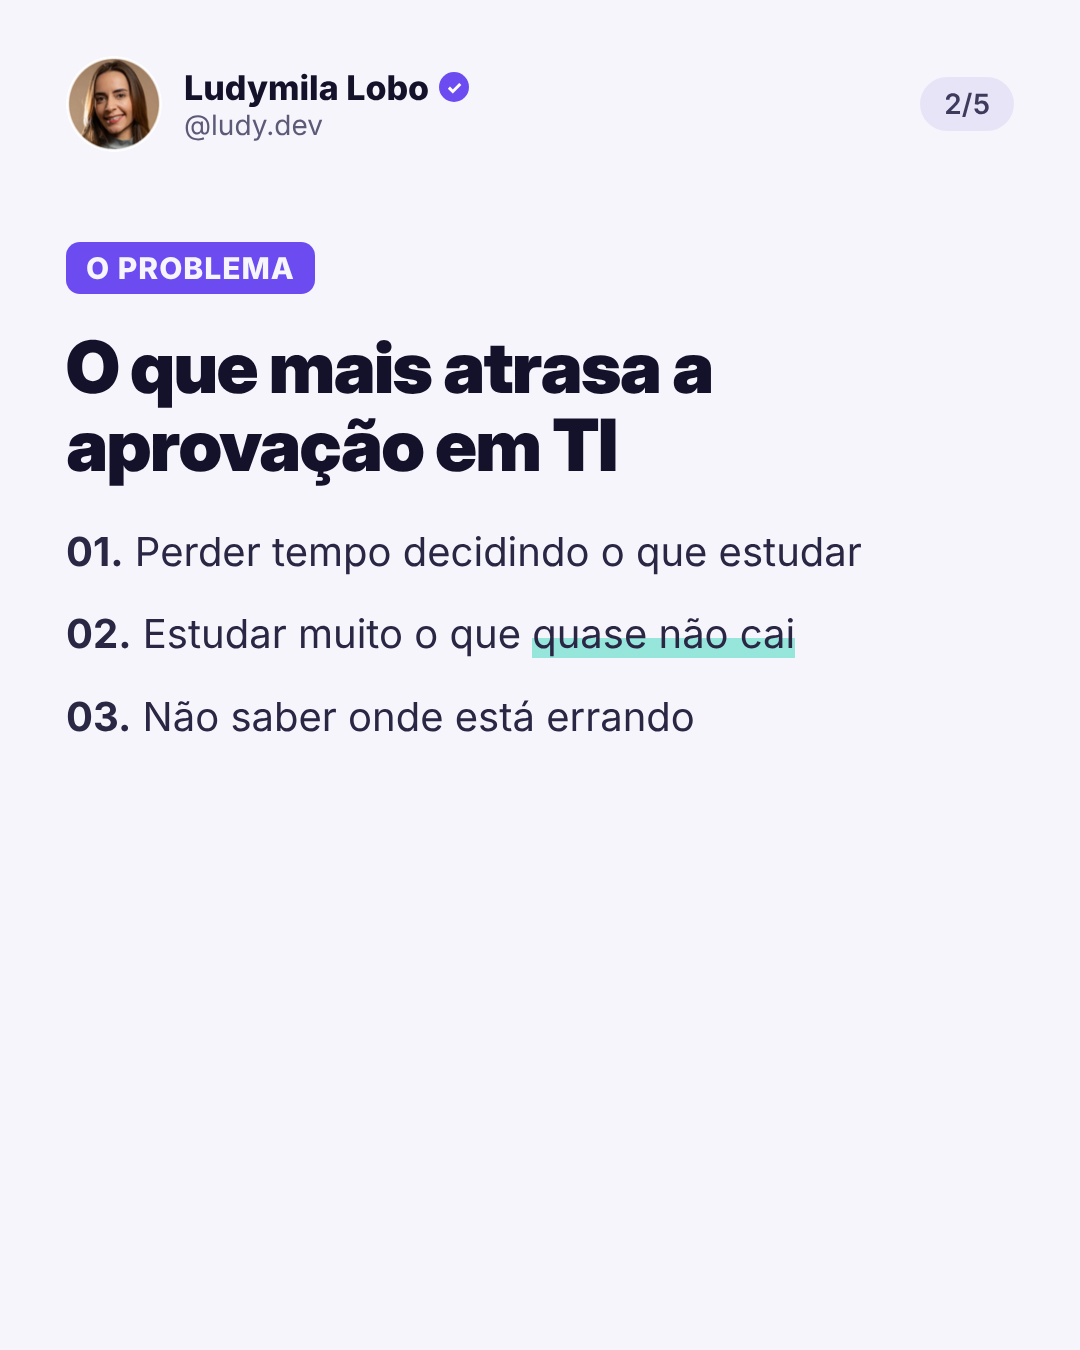
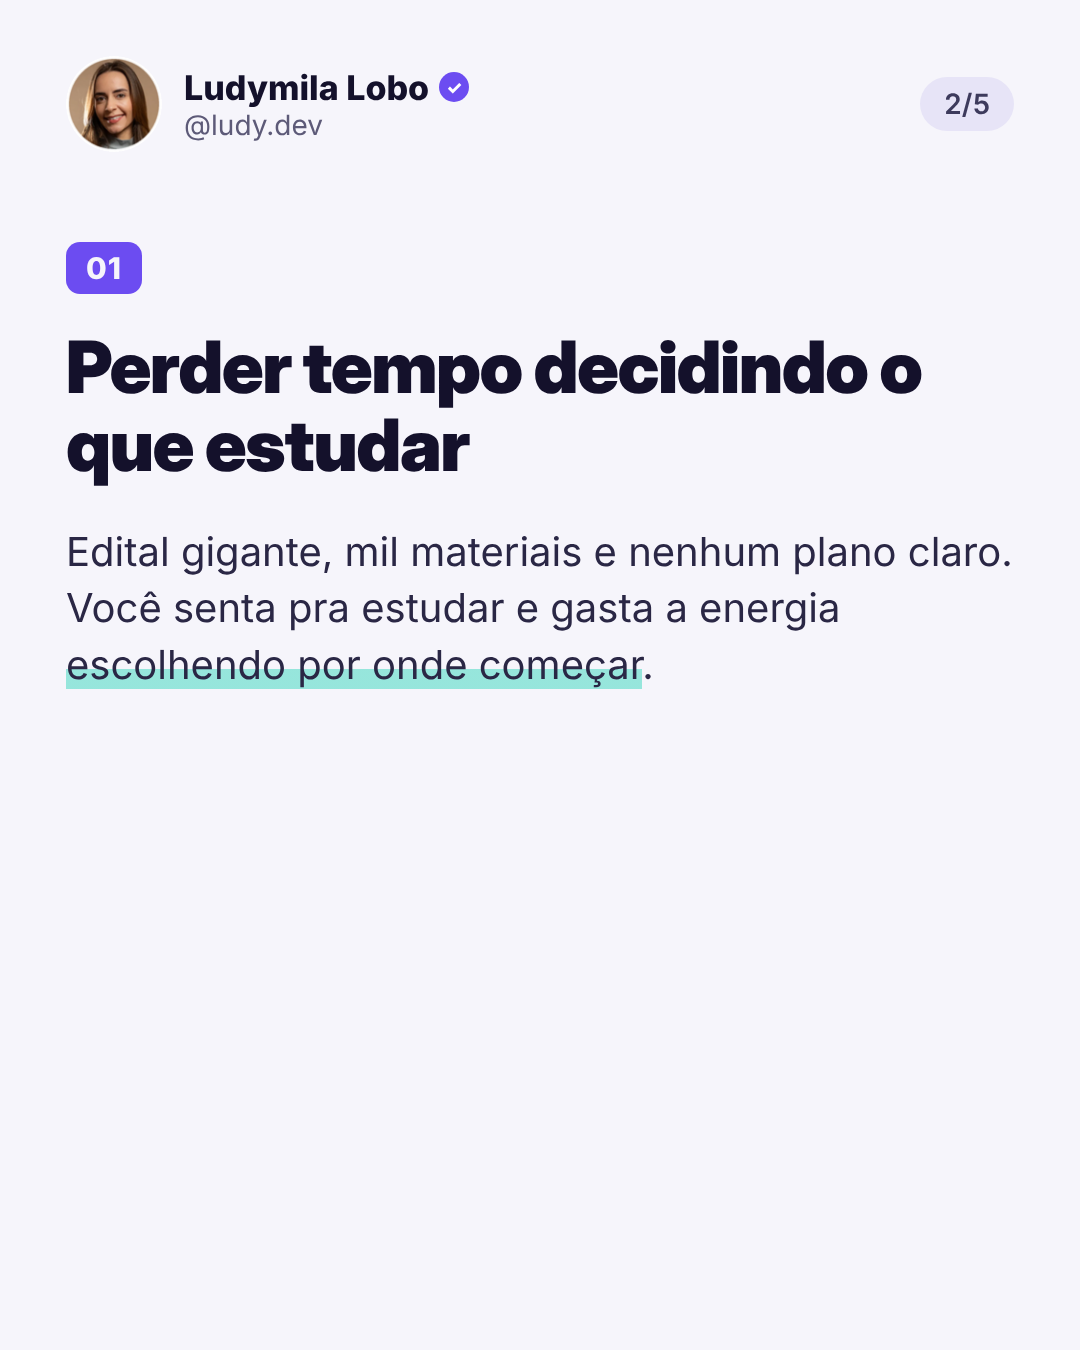
Post 2 de 19/10: 3 coisas que atrasam a aprovação
Claude-Session: https://claude.ai/code/session_01PAmMNyTervBqrWDZUP7Uz7

Changed region(s): [[0.0611, 0.2489, 0.9167, 0.56], [0.0917, 0.1556, 0.3056, 0.2178]]

diff --git a/_ferramentas/mentoria_1910.py b/_ferramentas/mentoria_1910.py
@@ -12,14 +12,14 @@ p1 = [page_a(badge() + """
 <div class="sub">Live hoje às 20h (Brasília) no grupo VIP · Comenta <b style="color:#22D3B6">GPS</b> que eu te mando o link</div>
 """, photo="fotos/ampulheta-1.jpg")]
 
-# POST 2 — 12h · carrossel · estilo B (tweet): o que ela mostra na live (baseado nos slides da Mentoria Individual GPS)
+# POST 2 — 12h · carrossel · estilo B (tweet): 3 coisas que mais atrasam a aprovação (conteúdo de valor + live)
 T2 = 5
 p2 = [
- page_b('<span class="tag">LIVE HOJE · 20H (BRASÍLIA)</span><h1>Hoje eu abro tudo sobre a <span class="v">Mentoria Individual GPS</span>.</h1><div class="lead">E por que um plano genérico não te leva até a aprovação →</div>', 1, T2),
- page_b('<span class="tag">O PROBLEMA</span><h2>O que mais atrasa a aprovação em TI</h2><p><b>01.</b> Perder tempo decidindo o que estudar</p><p><b>02.</b> Estudar muito o que <span class="hl">quase não cai</span></p><p><b>03.</b> Não saber onde está errando</p>', 2, T2),
- page_b('<span class="tag">O MÉTODO GPS</span><h2>Autoconhecimento é o que separa quem passa</h2><p>🔍 <b>Onde você está:</b> seus pontos fortes e, principalmente, os fracos</p><p>🧭 <b>Para onde vai:</b> a rota até o seu concurso e a sua meta</p><p>⚙ <b>Recalculando:</b> seu desempenho mostra o desvio, e a gente <span class="hl">ajusta a rota</span></p>', 3, T2),
- page_b('<span class="tag">NA PRÁTICA</span><h2>Na Mentoria Individual você recebe:</h2><p>🗺 Cronograma personalizado, montado por mim para o seu concurso</p><p>📊 Análise mensal + relatório na minha plataforma, a aprova.dev</p><p>💬 Meu acompanhamento pessoal</p><p>👥 Grupo exclusivo de mentorados</p>', 4, T2),
- page_b('<h2>É hoje.</h2><div class="box">📅 <b>Live:</b> hoje, 19/10, às 20h (horário de Brasília), exclusiva para o grupo VIP<br><br>⏳ <b>Mentoria Individual e bônus:</b> encerram hoje<br><br>Comenta <b>GPS</b> que eu te mando o link do grupo VIP.</div>', 5, T2),
+ page_b('<span class="tag">LIVE HOJE · 20H (BRASÍLIA)</span><h1>As 3 coisas que mais <span class="v">atrasam a aprovação</span> em concursos de TI.</h1><div class="lead">Se você se identificar com alguma, salva esse post →</div>', 1, T2),
+ page_b('<span class="tag">01</span><h2>Perder tempo decidindo o que estudar</h2><p>Edital gigante, mil materiais e nenhum plano claro. Você senta pra estudar e gasta a energia <span class="hl">escolhendo por onde começar</span>.</p>', 2, T2),
+ page_b('<span class="tag">02</span><h2>Estudar muito o que quase não cai</h2><p>Horas e horas investidas em assunto que a banca mal cobra, enquanto o que mais pontua fica pra depois.</p>', 3, T2),
+ page_b('<span class="tag">03</span><h2>Não saber onde está errando</h2><p>Sem dados, você repete os mesmos erros prova após prova.</p><p>É aqui que meu trabalho com <span class="hl">análise de dados</span> entra: os indicadores de desempenho mostram exatamente onde ajustar a rota.</p>', 4, T2),
+ page_b('<h2>Hoje, às 20h (Brasília), na live:</h2><p>✅ Dicas de estudo para fugir dessas 3 armadilhas</p><p>✅ Os erros que eu cometi quando comecei a estudar</p><p>✅ Como eu uso indicadores para guiar cada aluno</p><div class="box">A live é exclusiva para o grupo VIP.<br>Comenta <b>GPS</b> que eu te mando o link.</div>', 5, T2),
 ]
 
 # POST 3 — 17h · imagem única · estilo A (foto câmera): a live é hoje
